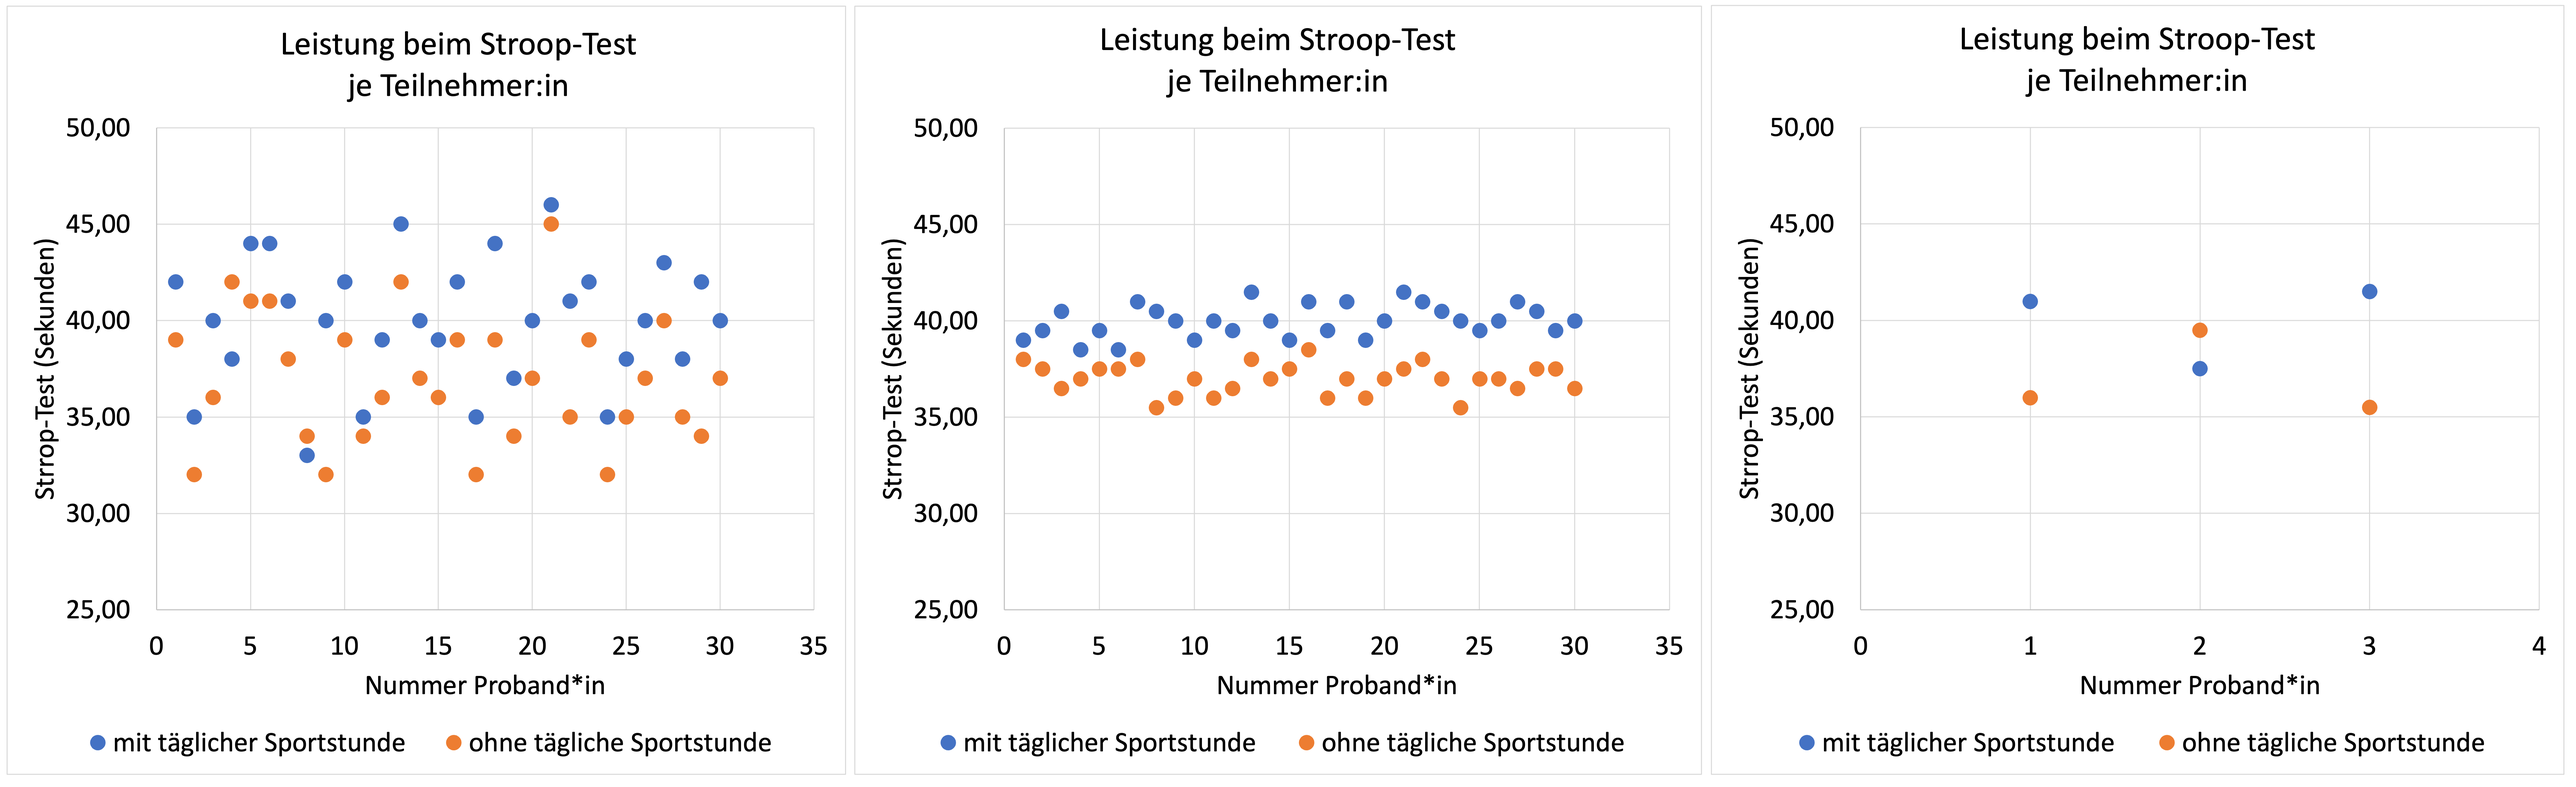
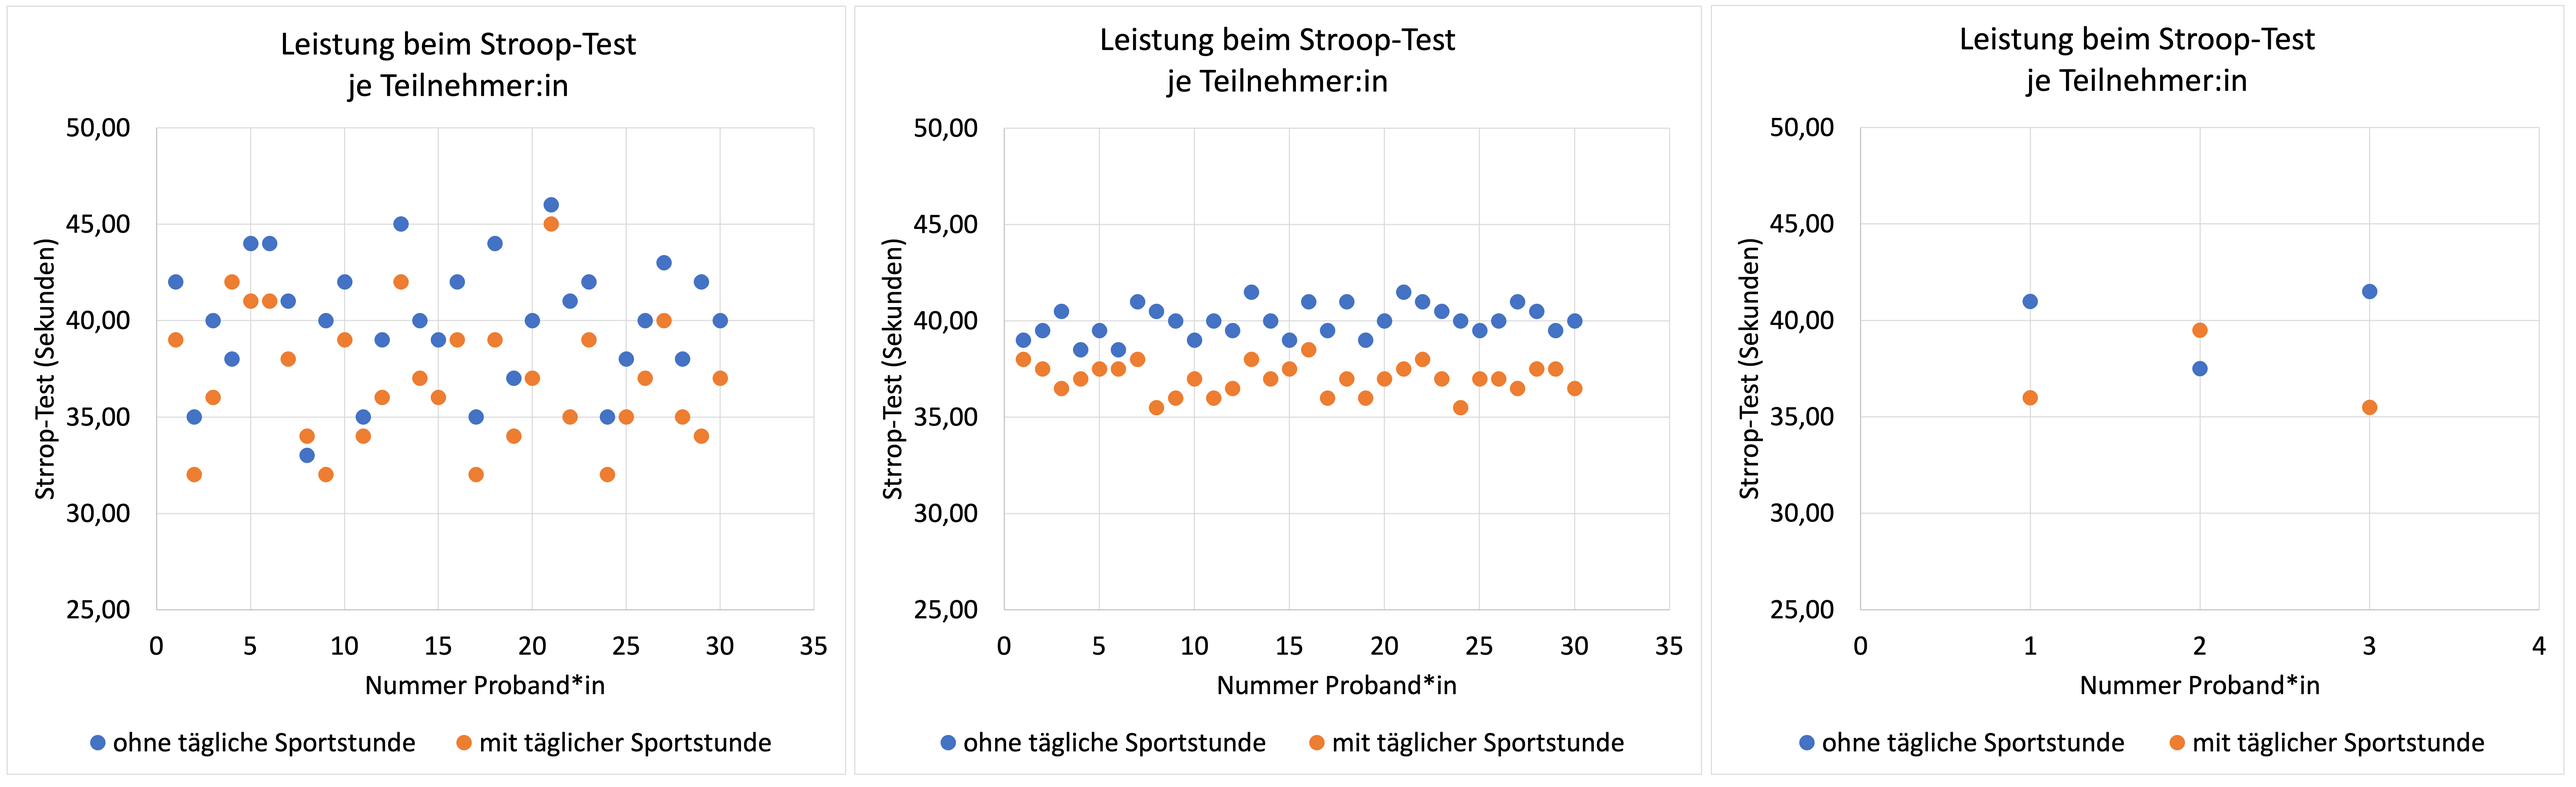
Update version in 05_Quantitatives_Forschen.md and correct typo in study types; update Stat_Streudiagramm.png

Changed region(s): [[0.3738, 0.9277, 0.5919, 0.9586], [0.0312, 0.9277, 0.2492, 0.9586], [0.7165, 0.9277, 0.9034, 0.9586]]

diff --git a/05_Quantitatives_Forschen.md b/05_Quantitatives_Forschen.md
@@ -1,7 +1,7 @@
 <!--
 author: Tim Heemsoth, Swantje Brandt
 email: tim.heemsoth@uni-flensburg.de
-version: 0.0.1
+version: 1.0.0
 language: de
 narrator: Deutsch Female
 
@@ -356,7 +356,7 @@ Aus "Wer sich viel bewegt, kann sich auch besser konzentrieren!" wird die... <br
 >| :-- | :-- |  :-- |
 >|Experiment| Personen werden zufällig Gruppen zugeordnet, die unterschiedliche Treatments erhalten.| Personen werden per Los in die Gruppen A oder B zugeordnet, wo sie nach Programm A oder Programm B trainieren.|
 >|Quasi-Experiment| Personen befinden sich in Gruppen, die unterschiedliche Treatments erhalten. Die Gruppenzuordnung ist nicht streng zufällig. | Wie beim Experiment, die Personen werden aber Klassenweise (z. B. in Schulklassen und somit nicht randomisiert) einem Trainingsprogramm zugeordnet.|
->|Koorelative Studie |Es gibt keine Intervention, es werden nur bestehende Merkmale gemessen.| Es werden Alter und Interesse gemessen, um den Zusammenhang dieser Variablen zu bestimmen.|
+>|Korrelative Studie |Es gibt keine Intervention, es werden nur bestehende Merkmale gemessen.| Es werden Alter und Interesse gemessen, um den Zusammenhang dieser Variablen zu bestimmen.|
 ******************************
 
 {{3-4}}
